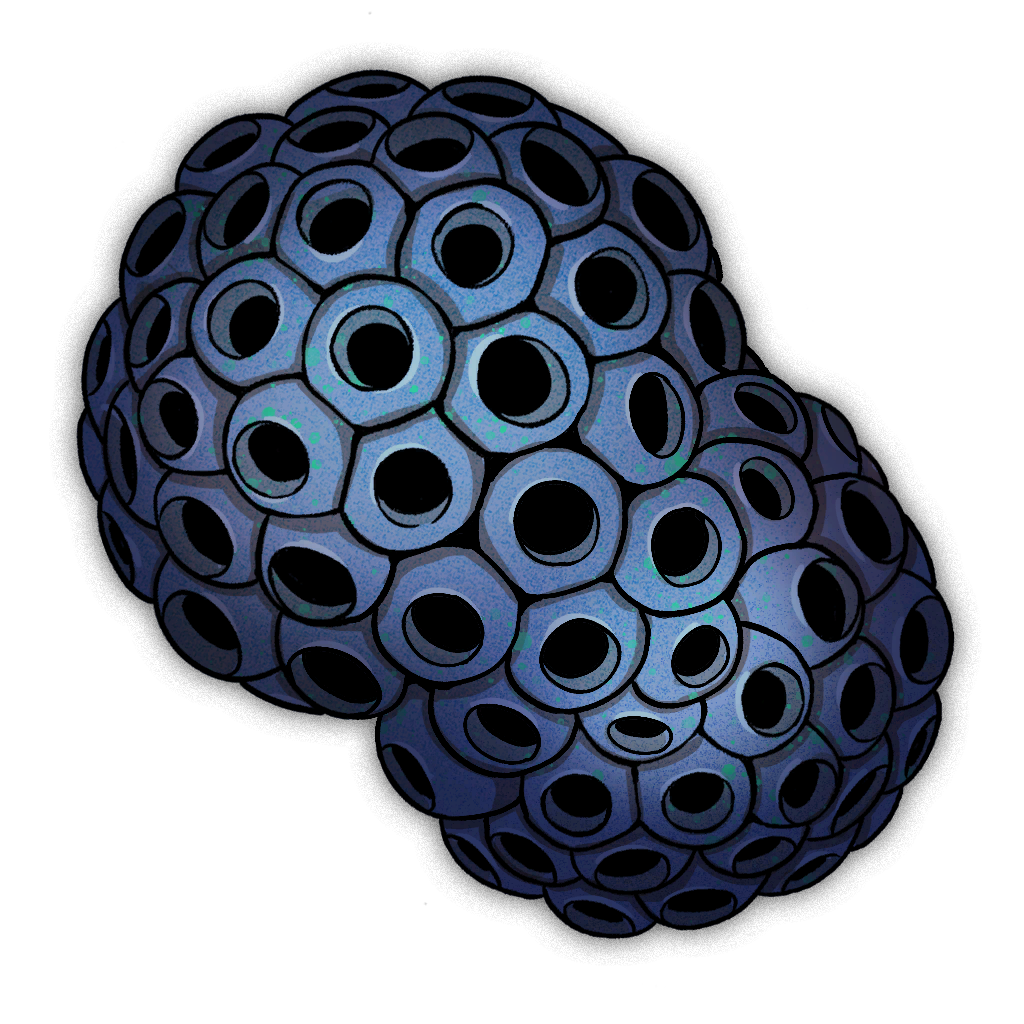
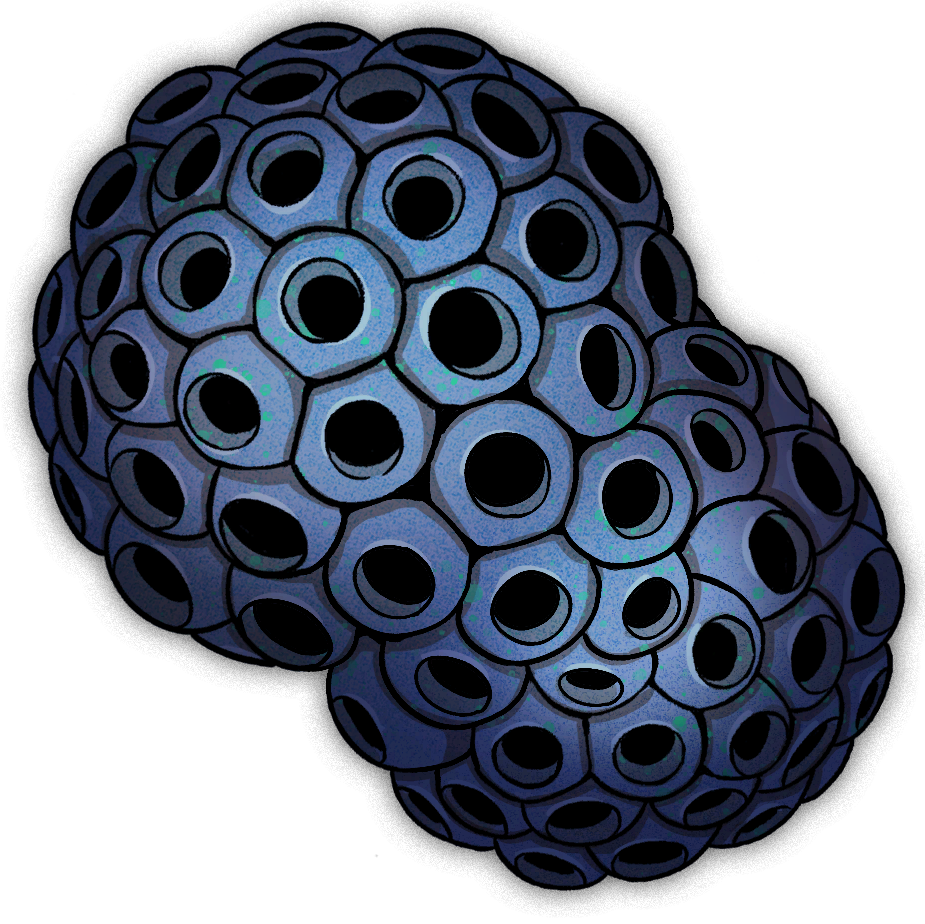
增加 古树节点 marker 增加 令牌 marker 修复子文件夹访问静态内容出现undefined的bug

diff --git a/src/components/LeafLetMap.vue b/src/components/LeafLetMap.vue
@@ -8,7 +8,7 @@ import markDescribe from './markDescribe.vue';
 import '../assets/marker.scss'
 const imageWidth = 38400;
 const imageHeight = 12722;
-const markWidth = 40;
+const markWidth = 20;
 const imageScale = 1.2;
 
 //地图上显示的所有不重复图标名称 such as:['vue.svg','chest.png']
@@ -30,7 +30,7 @@ onMounted(async ()=>{
 
   // https://leafletjs.cn/reference.html#divicon
   for (let i in setMark) {
-    let url = new URL(`../assets/mark/${setMark[i]}`, import.meta.url).href
+    let url = new URL(`../assets/mark/${setMark[i]}`.replace(/\/\//g, '/'), import.meta.url).href
     const imgSize = await getImageSize(url);
     const iconSize = [markWidth, imgSize[1] * markWidth / imgSize[0]];
     iconList[setMark[i]] = new L.divIcon({
@@ -80,7 +80,7 @@ onMounted(async ()=>{
             belong: markdata[types][i][j]['belong'],
             coordinates: [markdata[types][i][j]['coordinates']['x'], markdata[types][i][j]['coordinates']['y']],
             description: markdata[types][i][j]['description'],
-            markURL: new URL(`../assets/mark/${has_custom_image ?markdata[types][i][j]['custom-image']:markImg[i]}`, import.meta.url).href,
+            markURL: new URL(`../assets/mark/${has_custom_image ?markdata[types][i][j]['custom-image']:markImg[i]}`.replace(/\/\//g, '/'), import.meta.url).href,
             id: markdata[types][i][j]['id']
           }
         if(types === 'explore'){

diff --git a/src/App.vue b/src/App.vue
@@ -21,9 +21,9 @@ onMounted(() => {
         </svg>
       </div>
       <p>Preview version 0.1.1</p>
-      <p>Map collection progress (1/26)</p>
-      <div class="progress" role="progressbar" aria-label="Animated striped example" aria-valuenow="75" aria-valuemin="0" aria-valuemax="100">
-        <div class="progress-bar progress-bar-striped progress-bar-animated" style="width: 1%"></div>
+      <p>Map collection progress (3/28)</p>
+      <div class="progress" role="progressbar" aria-label="Animated striped example" aria-valuenow="7.4" aria-valuemin="0" aria-valuemax="100">
+        <div class="progress-bar progress-bar-striped progress-bar-animated" style="width: 10.7%"></div>
       </div>
     </div>
 </template>

diff --git a/src/components/controlPannel.vue b/src/components/controlPannel.vue
@@ -23,7 +23,7 @@ import {ShowControlPanel} from '../Tools/windowEvent.js';
     for (let i in mark_json){
         marker_image[i] = {}
         for(let j in mark_json[i]){
-            marker_image[i][j] = new URL(`../assets/mark/${mark_json[i][j]}`, import.meta.url).href
+            marker_image[i][j] = new URL(`../assets/mark/${mark_json[i][j]}`.replace(/\/\//g, '/'), import.meta.url).href
         }
     }
     //将markerCount和marker_image合并成一个对象
